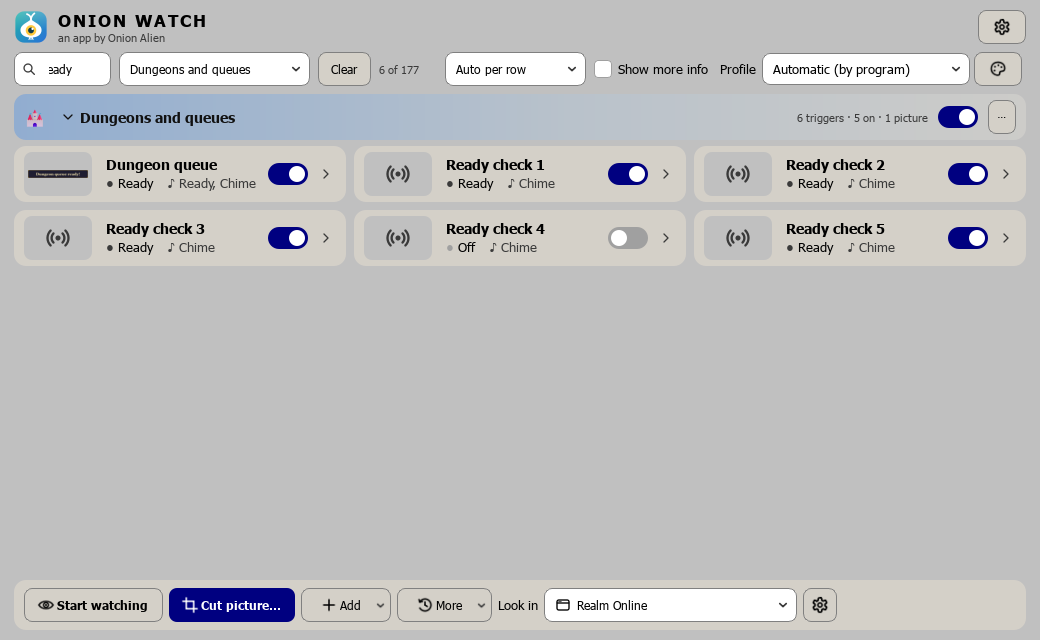
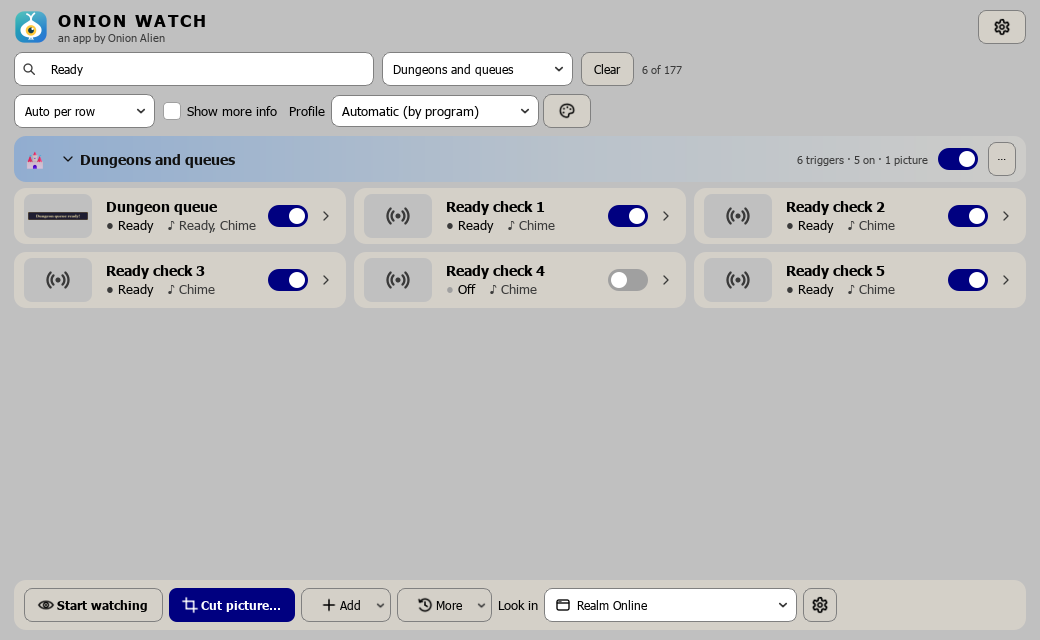
Triggers page: the search box keeps its room beside categories and a profile
With categories, a profile and the counts on one line, everything wanted
~1350 px, so below that the search box was squeezed to ~60 px ("Sea…",
"Ready" typed showing as "eady"), even at 1040 px. Now:

- the search box is never narrower than 200 px (260 on a shared line);
- "Auto per row", "Show more info" and the Profile go to a line of their
  own unless they, the search box and the counts fit on one line at their
  usual widths (one above the other when even their own line is too narrow);
- the counts are cut short a whole part at a time ("… · 11 pictures …"),
  never a sliced letter, a lone "1" or a trailing "·".

Test: the box's width and the typed text at 900 and 1040 px, Retro 98 and
Dark, with categories and a profile. Screenshots re-rendered.

Changed region(s): [[0.0, 0.0625, 0.9846, 0.4688], [0.3692, 0.3125, 0.4, 0.4688], [0.0308, 0.4062, 0.0615, 0.4688]]

diff --git a/onionwatch/ui/triggerspanel.py b/onionwatch/ui/triggerspanel.py
@@ -64,6 +64,8 @@ MAX_TRIGGERS = 500      # in all; how many can be on at once is up to the comput
 # under "more_triggers", which those versions never read or write: opening the same
 # settings in one of them (an older Onion Board add-on, say) can't lose any
 OLD_TRIGGERS = 50
+SEARCH_MIN = 200        # px: the search box never gets narrower (it was squeezed to "Sea…")
+SEARCH_ROOM = 260       # px it keeps before the view's controls go to a line of their own
 MAX_SIDE = 8192         # bigger pictures are refused (kept pixel for pixel, never resized)
 CUT_KEY = "OnionWatch cut from"   # a picture's PNG text: the size of what it was cut from
 THUMB = QSize(112, 64)
@@ -288,6 +290,16 @@ class WideCombo(QComboBox):
     def minimumSizeHint(self) -> QSize:
         s = super().minimumSizeHint()
         return QSize(min(s.width(), self.min_width), s.height())
+
+
+def _row_width(widgets: list[QWidget], gap: int = 8, least: bool = True) -> int:
+    """The width the shown `widgets` need side by side, `gap` px apart: the least
+    they can do with, or (`least` False) what they'd like."""
+    shown = [w for w in widgets if not w.isHidden()]
+    return (sum(max(w.minimumWidth(),
+                    (w.minimumSizeHint() if least else w.sizeHint()).width())
+                for w in shown)
+            + gap * max(0, len(shown) - 1))
 
 
 def labelled(text: str, w: QWidget) -> QWidget:
@@ -664,6 +676,50 @@ class FlowBox(QWidget):
         h = self.flow.heightForWidth(max(self.width(), 1))
         if h != self.minimumHeight():
             self.setMinimumHeight(h)
+
+
+class ElidedLabel(QLabel):
+    """One line cut short a whole part at a time ("12 of 40 triggers on · …") where
+    it doesn't fit, never a letter sliced in half at the edge or a lone "1" or "·"
+    (the Profile line's counts in a window too narrow for them)."""
+
+    SEPARATORS = ("  —  ", " · ")
+
+    def _ends(self) -> list[int]:
+        full = self.text()
+        return sorted(i for sep in self.SEPARATORS
+                      for i in range(len(full)) if full.startswith(sep, i))
+
+    def least_width(self) -> int:
+        """How wide it must be to show its first part."""
+        ends = self._ends()
+        text = self.text()[:ends[0]] + " …" if ends else self.text()
+        return self.fontMetrics().horizontalAdvance(text) + 4
+
+    def sizeHint(self):     # (its full width would squeeze everything beside it)
+        return QSize(self.least_width(), super().sizeHint().height())
+
+    def minimumSizeHint(self):
+        return QSize(0, super().minimumSizeHint().height())
+
+    def shown_text(self) -> str:
+        width, fm = self.contentsRect().width(), self.fontMetrics()
+        full = self.text()
+        if fm.horizontalAdvance(full) <= width:
+            return full
+        for end in reversed(self._ends()):
+            text = full[:end] + " …"
+            if fm.horizontalAdvance(text) <= width:
+                return text
+        return ""
+
+    def paintEvent(self, ev):
+        r = self.contentsRect()
+        text = self.shown_text()
+        p = QPainter(self)
+        self.style().drawItemText(p, r, int(self.alignment()), self.palette(),
+                                  self.isEnabled(), text, self.foregroundRole())
+        p.end()
 
 
 class BarFlow(Flow):
@@ -2089,15 +2145,20 @@ class TriggersTab(QWidget):
         self.btn_categories.clicked.connect(lambda: self.edit_categories())
         align_control(self.btn_categories)
         gb.addWidget(self.btn_categories)
-        self.lbl_counts = hint_label("")     # cut short rather than widen a narrow window
-        self.lbl_counts.setWordWrap(False)
-        self.lbl_counts.setSizePolicy(QSizePolicy.Ignored, QSizePolicy.Preferred)
+        self.lbl_counts = ElidedLabel()     # cut short rather than widen a narrow window
+        self.lbl_counts.setObjectName("hint")
+        self.lbl_counts.setSizePolicy(QSizePolicy.Expanding, QSizePolicy.Preferred)
         # one line over the list: the search box, always there, then (once there are
         # categories or profiles) the category to search and the profile in charge
         self.search_bar = QWidget()
-        search_layout = QBoxLayout(QBoxLayout.LeftToRight, self.search_bar)
+        bar_layout = QVBoxLayout(self.search_bar)
+        bar_layout.setContentsMargins(0, 0, 0, 0)
+        bar_layout.setSpacing(8)
+        self.search_line = QWidget()
+        search_layout = QBoxLayout(QBoxLayout.LeftToRight, self.search_line)
         search_layout.setContentsMargins(0, 0, 0, 0)
         search_layout.setSpacing(8)
+        bar_layout.addWidget(self.search_line)
         self.search_text = QLineEdit()
         self.search_text.setPlaceholderText("Search triggers")
         self.search_text.setAccessibleName("Search triggers")
@@ -2107,6 +2168,7 @@ class TriggersTab(QWidget):
         self._search_icon = self.search_text.addAction(icons.icon("search", "muted"),
                                                        QLineEdit.LeadingPosition)
         align_control(self.search_text)
+        self.search_text.setMinimumWidth(SEARCH_MIN)
         search_layout.addWidget(self.search_text, 3)
         self.search_scope = WideCombo(min_width=140)
         self.search_scope.setAccessibleName("Search category")
@@ -2123,6 +2185,13 @@ class TriggersTab(QWidget):
         search_layout.addWidget(self.search_summary)
         search_layout.addWidget(self.lbl_counts, 4)
         search_layout.addStretch(1)
+        # how the cards look, and the profile: at the end of the line while the search
+        # box keeps its room there, else on a line of their own under it (_fit_top)
+        self.view_bar = QWidget()
+        view_layout = QBoxLayout(QBoxLayout.LeftToRight, self.view_bar)
+        view_layout.setContentsMargins(0, 0, 0, 0)
+        view_layout.setSpacing(8)
+        search_layout.addWidget(self.view_bar)
         self.cb_per_row = WideCombo(min_width=110)
         self.cb_per_row.setAccessibleName("Cards per row")
         self.cb_per_row.setToolTip("How many closed cards go side by side: as many as fit "
@@ -2137,14 +2206,14 @@ class TriggersTab(QWidget):
         no_wheel(self.cb_per_row)
         align_control(self.cb_per_row)
         self.cb_per_row.currentIndexChanged.connect(self.set_per_row)
-        search_layout.addWidget(self.cb_per_row)
+        view_layout.addWidget(self.cb_per_row)
         self.chk_advanced = QCheckBox("Show more info")
         self.chk_advanced.setToolTip("Closed cards show more: every name in full, and "
                                      "each trigger's settings")
         self.chk_advanced.setChecked(host.screen.get("advanced_cards") is True)
         self.chk_advanced.toggled.connect(self._on_advanced)
-        search_layout.addWidget(self.chk_advanced)
-        search_layout.addWidget(self.groupbar)
+        view_layout.addWidget(self.chk_advanced)
+        view_layout.addWidget(self.groupbar)
         # side by side only sets no minimum: below 600 px resizeEvent stacks it instead
         self.search_bar.setSizePolicy(QSizePolicy.Ignored, QSizePolicy.Preferred)
         v.addWidget(self.search_bar)
@@ -2325,8 +2394,9 @@ class TriggersTab(QWidget):
         """The line over the list: stacked in a narrow window, and only the parts
         there's a use for (the category to search and the profile once there are
         categories, Clear and the count while searching, else what's on)."""
-        stacked = self.width() < 600
-        self.search_bar.layout().setDirection(
+        width = self.width()
+        stacked = width < 600
+        self.search_line.layout().setDirection(
             QBoxLayout.TopToBottom if stacked else QBoxLayout.LeftToRight)
         self.search_text.setMaximumWidth(16777215 if stacked else 360)
         grouped = self._grouped()
@@ -2337,6 +2407,24 @@ class TriggersTab(QWidget):
         self.lbl_counts.setVisible(grouped and not active and not stacked)
         self.groupbar.setVisible(grouped)
         self.btn_categories.setEnabled(self._named_categories())
+        # the view's controls share the search's line only while they, the search box
+        # (SEARCH_ROOM) and the counts' first part fit there at their usual widths (a
+        # layout short of room squeezes the search box first); else they go under it,
+        # one above the other when even a line of their own is too narrow for them
+        line = [self.search_scope, self.btn_clear_search, self.search_summary]
+        view = [self.cb_per_row, self.chk_advanced, self.groupbar]
+        counts = 0 if self.lbl_counts.isHidden() else self.lbl_counts.least_width() + 8
+        wanted = SEARCH_ROOM + 8 + counts + _row_width(line + view, least=False)
+        one_line = not stacked and width >= wanted
+        self.view_bar.layout().setDirection(
+            QBoxLayout.TopToBottom if stacked or width < _row_width(view)
+            else QBoxLayout.LeftToRight)
+        self.search_text.setMinimumWidth(SEARCH_ROOM if one_line else SEARCH_MIN)
+        target = self.search_line.layout() if one_line else self.search_bar.layout()
+        if self.view_bar.parentWidget() is not target.parentWidget():
+            self.view_bar.parentWidget().layout().removeWidget(self.view_bar)
+            target.addWidget(self.view_bar)
+        target.setAlignment(self.view_bar, Qt.Alignment() if stacked else Qt.AlignLeft)
 
     def set_per_row(self, n: int):
         """`n` closed cards to a line (0: as many as fit), kept for the next start."""

diff --git a/tests/test_search.py b/tests/test_search.py
@@ -1,6 +1,8 @@
 """Search the model, even when hundreds of cards haven't been built yet."""
 from copy import deepcopy
 
+import pytest
+
 import test_categories
 from test_categories import raw, watched
 
@@ -97,3 +99,47 @@ def test_category_controls_fit_in_a_narrow_window(make, qapp):
             continue
         for button in sec.header.findChildren(QPushButton):
             assert button.mapTo(tab, button.rect().topRight()).x() < tab.width()
+
+
+@pytest.mark.parametrize("width", [900, 1040])
+@pytest.mark.parametrize("theme_name", ["Retro 98", "Dark"])
+def test_the_search_box_stays_usable_beside_categories_and_a_profile(make, qapp, width,
+                                                                     theme_name):
+    """With categories, a profile and the counts, the line over the list once had no
+    room left for the search box: "Sea…", and "Ready" typed showed as "eady"."""
+    from PySide6.QtWidgets import QWidget
+
+    from onionwatch import profiles, theme
+    from onionwatch.ui.triggerspanel import SEARCH_MIN
+    old = qapp.styleSheet()
+    theme.apply(qapp, theme_name)
+    try:
+        tab = make({"triggers": [raw(i, f"Cat {i % 3}") for i in range(30)]})
+        tab.set_profiles([profiles.new_profile("Realm Online raids")])
+        tab.set_profile(profiles.AUTO)
+        tab.resize(width, 640)
+        tab.show()
+        tab.search_text.setText("Ready check 3")
+        for _ in range(12):
+            qapp.processEvents()
+        assert not tab.groupbar.isHidden() and not tab.search_scope.isHidden()
+        box = tab.search_text
+        assert box.width() >= max(240, SEARCH_MIN)
+        text = box.fontMetrics().horizontalAdvance(box.text())
+        assert text + 60 < box.width()      # the typed text, the icon and the clear button
+        bar = tab.search_bar
+        for w in bar.findChildren(QWidget):   # everything on the bar fits inside it
+            if w.isVisibleTo(bar) and w.parentWidget() in (tab.search_line, tab.view_bar):
+                assert w.mapTo(bar, w.rect().topLeft()).x() >= 0
+                assert w.mapTo(bar, w.rect().topRight()).x() < bar.width()
+        tab.search_text.clear()
+        for _ in range(5):
+            qapp.processEvents()
+        counts = tab.lbl_counts
+        assert counts.isVisible()
+        shown = counts.shown_text()      # whole parts, never a lone "1" or a trailing "·"
+        assert shown and counts.text().startswith(shown.removesuffix(" …"))
+        assert not shown.rstrip(" …").endswith("·")
+    finally:
+        qapp.setStyleSheet(old)
+        theme.set_current(theme.DEFAULT)

diff --git a/scripts/screenshots.py b/scripts/screenshots.py
@@ -319,7 +319,7 @@ def main(out: Path):
     tab._layout_sections()
     for row in tab.rows.values():
         row.set_open(False)
-    win.resize(1040, 640)   # wide enough that the search box isn't squeezed
+    win.resize(1040, 640)
     app.processEvents()
     for _ in range(3):
         app.processEvents()
